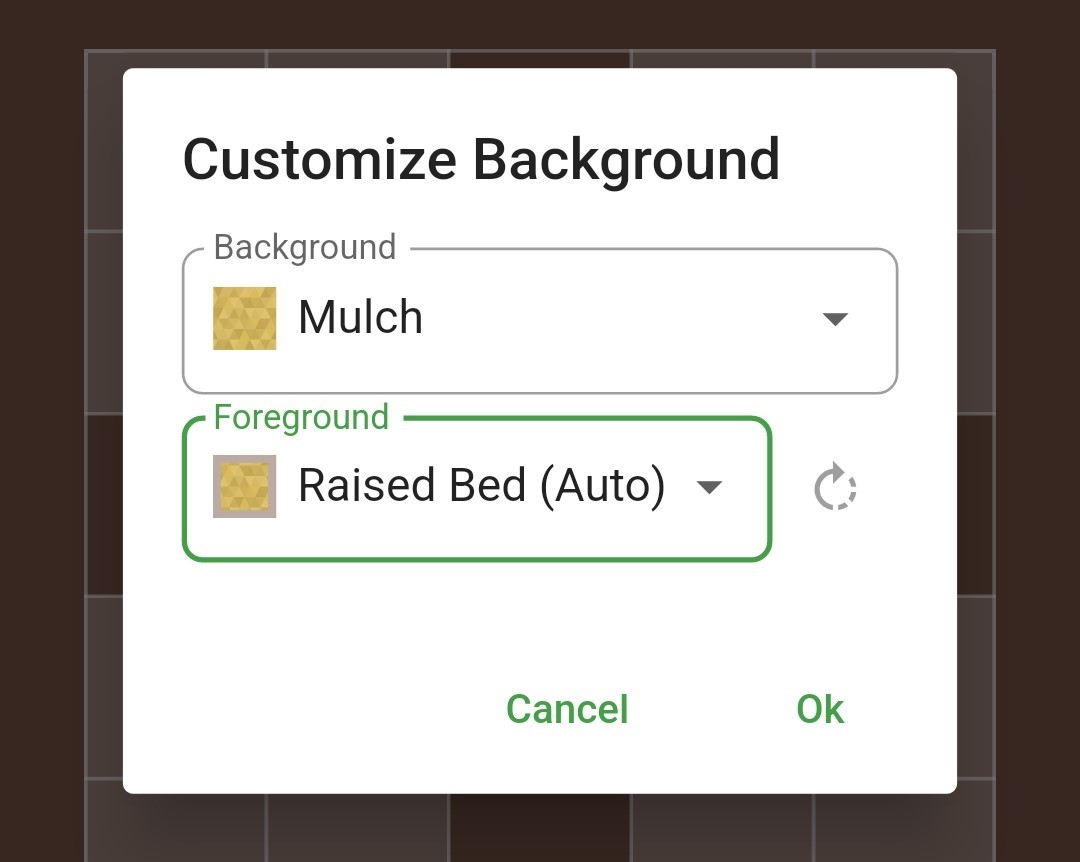
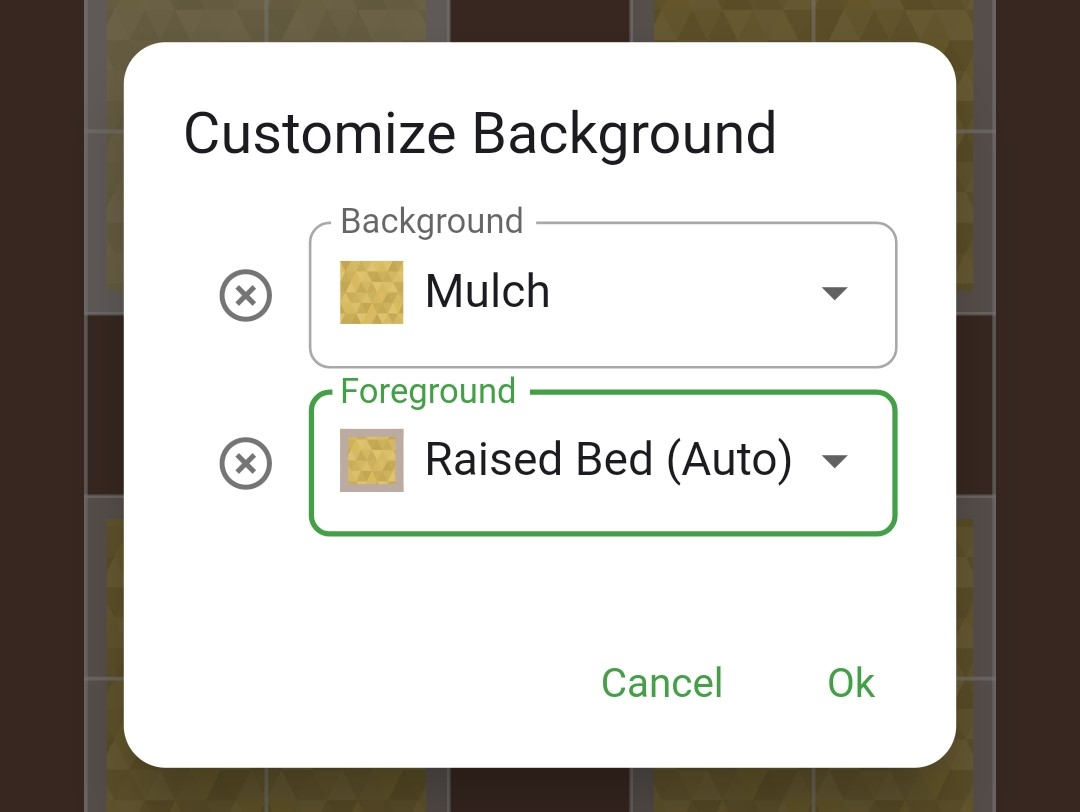
Edit customize

diff --git a/content/en/docs/100_gardens/107_customize/index.md b/content/en/docs/100_gardens/107_customize/index.md
@@ -26,6 +26,8 @@ Customize your garden in Planter by adding raised beds, containers, mulch, and m
 To reset your garden background:
 
 1. Select the square(s) to be changed
-2. Select the **palette icon** {{< mdi palette "Palette icon" >}}
-3. Choose a new background and foreground, or leave the background and foreground empty to clear all customizations
-{{< alert icon="🌶" context="warning" text="You can’t clear just the foreground or just the background - clear all customizations first then select a new background and foreground" />}}
+2. Select the **palette icon** {{< mdi palette "Palette icon" >}}<br /><br />
+{{< screenshot Palette.jpg "Screenshot of the palette icon in the Gardens view" >}}<br /><br />
+3. Choose a new background and/or foreground, or select **X** beside the background and/or foreground to clear customizations<br /><br />
+4. Select **Ok**
+{{< screenshot Customize-background.jpg "Screenshot of background and foreground customization selectors" >}}
